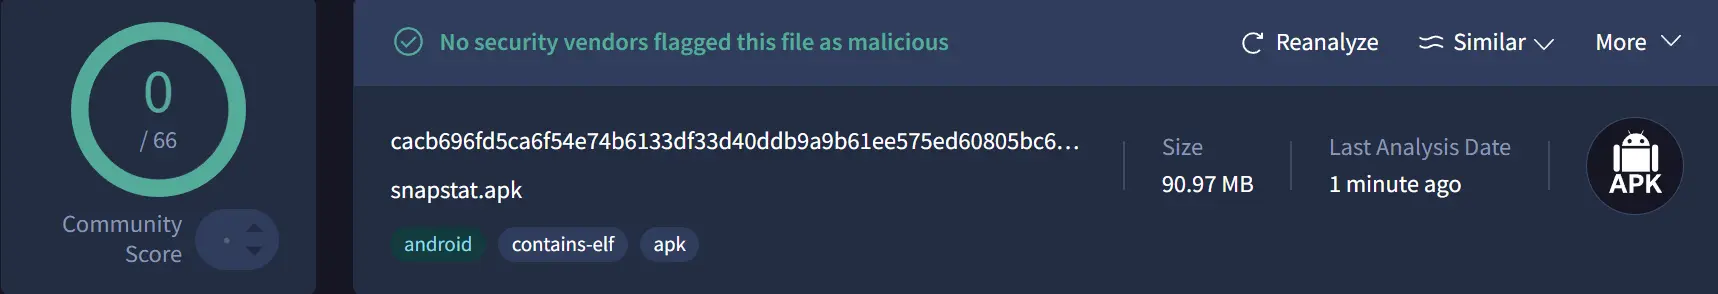
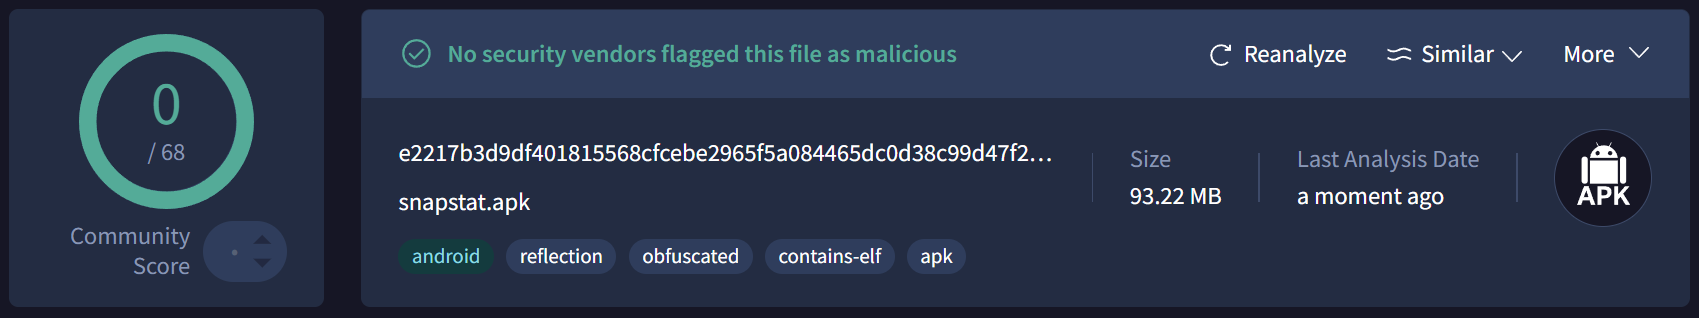
add

Changed region(s): [[0.0, 0.0, 1.0, 1.0], [0.6551, 0.5816, 0.8735, 0.6735], [0.6551, 0.4592, 0.7175, 0.5204]]

diff --git a/index.html b/index.html
@@ -12,11 +12,11 @@
     <link rel="icon" href="assets/branding/snapstat_logo.png">
     <script src="theme-init.js?v=20260718a"></script>
     <link rel="stylesheet" href="https://unpkg.com/lenis@1.3.25/dist/lenis.css">
-    <link rel="stylesheet" href="styles.css?v=20260719e">
+    <link rel="stylesheet" href="styles.css?v=20261009a">
     <script src="https://cdn.jsdelivr.net/npm/gsap@3.13.0/dist/gsap.min.js" defer></script>
     <script src="https://cdn.jsdelivr.net/npm/gsap@3.13.0/dist/ScrollTrigger.min.js" defer></script>
     <script src="https://unpkg.com/lenis@1.3.25/dist/lenis.min.js" defer></script>
-    <script src="script.js?v=20260719c" defer></script>
+    <script src="script.js?v=20261009a" defer></script>
   </head>
   <body class="is-loading">
     <div class="preloader" aria-hidden="true">
@@ -375,12 +375,16 @@
             </p>
             <div class="trust-pill">
               <span>VirusTotal checked</span>
-              <strong>Version 0.1.5 - 0 malicious detections</strong>
+              <strong>Version 0.1.7 - 0 malicious detections</strong>
             </div>
             <figure class="virustotal-proof-wrap" data-mobile-lightbox>
               <img
                 class="virustotal-proof"
                 src="assets/branding/virustotal lightmode.webp"
+                data-light-src="assets/branding/virustotal lightmode.webp"
+                data-dark-src="assets/branding/virustotal darkmode.webp"
+                width="1709"
+                height="317"
                 alt="VirusTotal result showing no detections for the SnapStat APK"
                 loading="lazy"
                 decoding="async"
@@ -400,7 +404,7 @@
         <a class="download-button reveal" href="/download">
           <img src="assets/branding/snapstat1_logo.png" alt="">
           <span>
-            <small>Android 10+ · Version 0.1.5 · 95.39 mb</small>
+            <small>Android 10+ · Version 0.1.7 · 93.22 mb</small>
             Download SnapStat
           </span>
         </a>

diff --git a/script.js b/script.js
@@ -22,6 +22,7 @@ function listen(target, eventName, handler, options) {
 function initializeThemeToggle() {
   const toggle = document.querySelector('.theme-toggle');
   const themeMeta = document.querySelector('meta[name="theme-color"]');
+  const proofImage = document.querySelector('.virustotal-proof');
   const systemTheme = window.matchMedia('(prefers-color-scheme: dark)');
   let transitionInProgress = false;
   if (!toggle) return null;
@@ -37,6 +38,11 @@ function initializeThemeToggle() {
   function applyTheme(theme, persist = false) {
     const nextTheme = theme === 'dark' ? 'dark' : 'light';
     document.documentElement.dataset.theme = nextTheme;
+    if (proofImage) {
+      proofImage.src = nextTheme === 'dark'
+        ? proofImage.dataset.darkSrc
+        : proofImage.dataset.lightSrc;
+    }
     toggle.checked = nextTheme === 'dark';
     toggle.setAttribute(
       'aria-label',

diff --git a/styles.css b/styles.css
@@ -1696,13 +1696,13 @@ body.menu-open .menu-toggle-label {
 
 .virustotal-proof-wrap {
   display: block;
-  margin-top: 18px;
+  margin: 18px 0 0;
 }
 
 .virustotal-proof {
   width: 100%;
-  aspect-ratio: 841 / 184;
-  object-fit: cover;
+  height: auto;
+  object-fit: contain;
   background: var(--paper-muted);
   border: 1px solid var(--line-light);
   border-radius: 10px;
